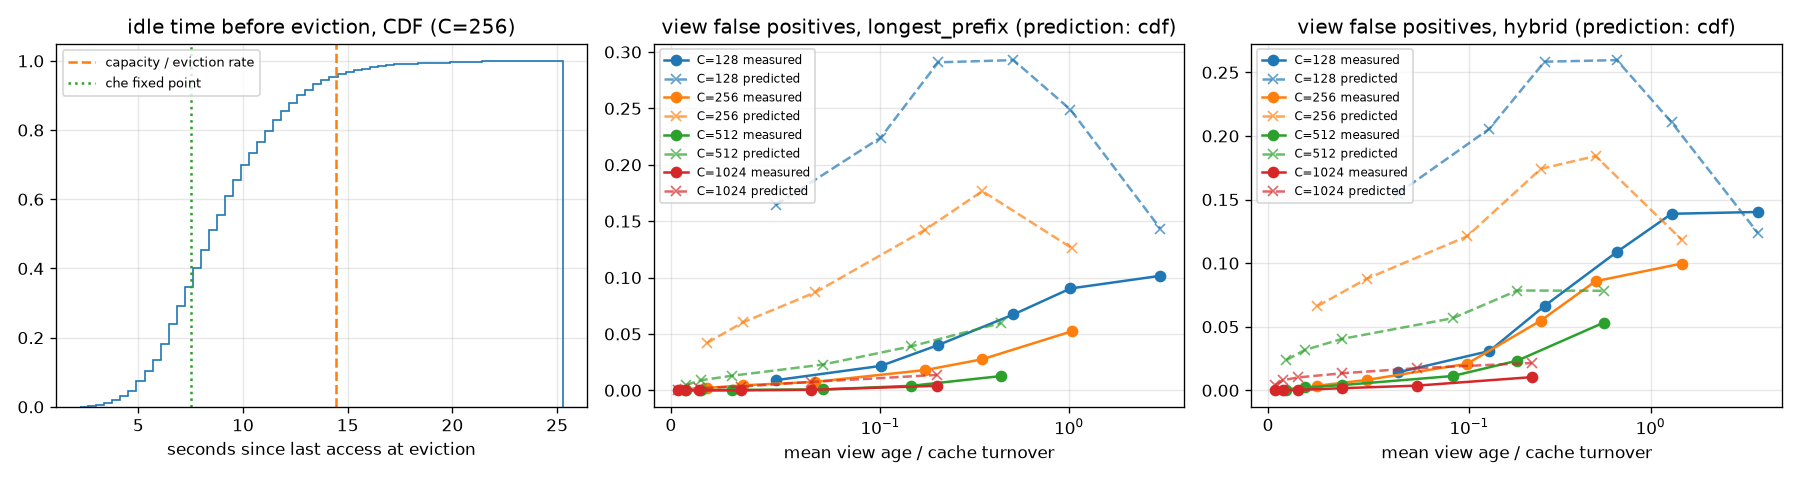
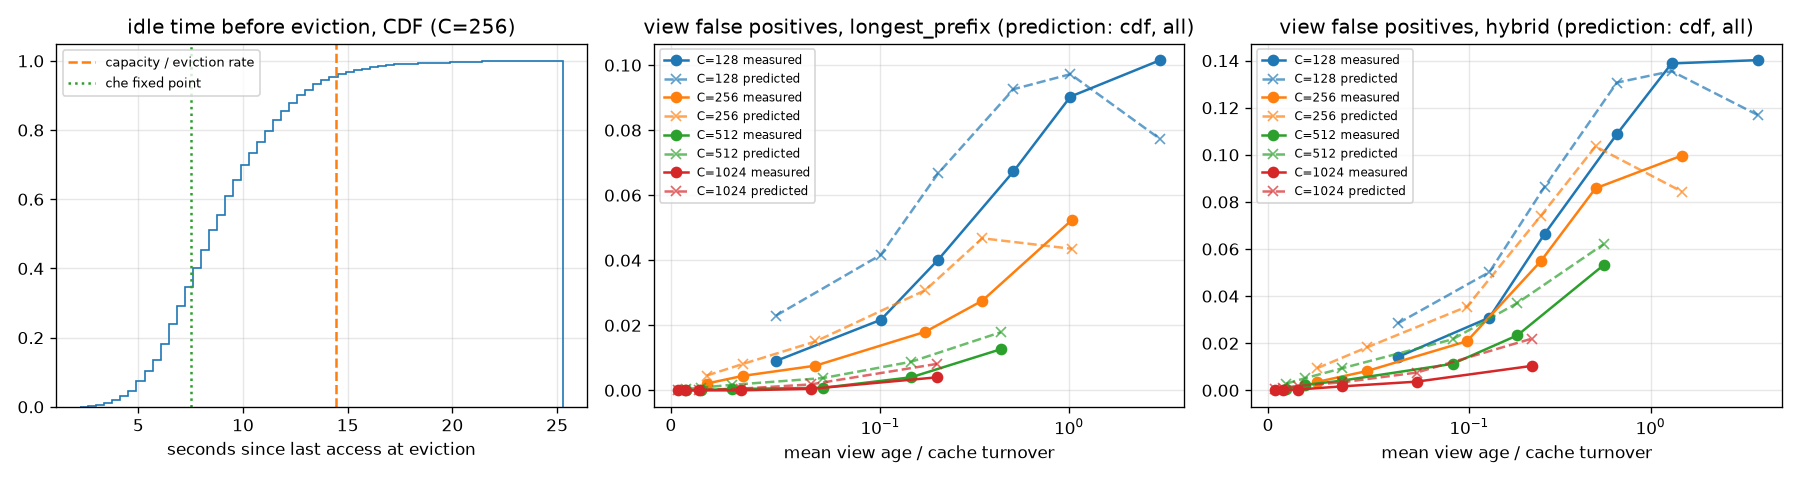
theory check with the corrected survival model

diff --git a/notes/running_exp.md b/notes/running_exp.md
@@ -185,3 +185,23 @@ longest prefix (any treatment)     0.716   0.715   0.714   0.697   0.692   0.645
   C=128, P=5                    0.507     0.0673        0.0889              0.2928
   C=512, P=30                   0.435     0.0127        0.0096              0.0597
   C=1024, P=30                  0.200     0.0040        0.0000              0.0137
+
+
+- theory check, corrected model (2/9/26, E11 final): same setup as the theory check above, after two changes to how the survival view turns per-block survival into an expected match. supersedes the prediction columns above. scripts/theory_check.py, scripts/fp_by_age.py, out/theory_check.png/.csv, out/fp_by_age.csv
+    - first, a diagnostic: bin every promised block by how old the view believed it to be (router `record_block_samples`). at 0.25s view age the residence-cdf hazard is only ~2x off per block (blocks believed 5-8s old: measured 1.3% false, hazard 3.1%; 8-12s: 4.3% vs 7.7%; below 5s both are zero), while the view's aggregate prediction was 15x off. so the residence distribution was roughly right and the way per-block survivals were combined was wrong
+    - correction 1, nested losses: the expected surviving match was Σ_j Π_{i≤j} S_i, every block an independent coin flip. in a radix cache a block is only evicted after everything below it, so "block j is present" implies its ancestors are, and the expected depth is Σ_j S_j (running-min clamped). the product turned a 3% per-block risk into a 27% loss over a 20-block path
+    - correction 2, rescue at the chosen worker: a stale entry is rescued only if *this* worker saw the block again, so the rescue rate is the per-(worker, block) dispatch rate, not the fleet rate. with the fleet rate hybrid, which spreads a prefix across workers, was rescued too often and under-predicted 2.6x at 1.5 turnovers of age; per-worker rates bring it to 0.85x
+    - result: predicted fp within 2x of measured at every point where measured fp exceeds 1%, within 1.4x at ages above a quarter turnover, ~2x over at the smallest ages (the leaf-heavy eviction log; absolute error below half a point there) and ~20% under past one turnover. the shape from the first check stands: fp is linear in age / turnover with a capacity-dependent slope, the cold share of promised blocks: longest prefix 0.19 / 0.11 / 0.03 / 0.02 per turnover at 128 / 256 / 512 / 1024 blocks, hybrid 0.26 / 0.21 / 0.13 / 0.05 (churn plus spreading)
+    - what this buys: the router can now say, per decision, how much of a promise to believe, from things it already has (the snapshot's last-access ages, its own dispatch counts, the worker's eviction counter). the survival treatment in E12 was measured with the product form and is being re-run
+
+-  view fp, corrected model      age/T_C   measured   predicted
+  longest prefix, C=128, P=2      0.20      0.040      0.067
+  longest prefix, C=128, P=10     1.02      0.090      0.097
+  longest prefix, C=256, P=5      0.17      0.018      0.031
+  longest prefix, C=256, P=30     1.04      0.053      0.044
+  longest prefix, C=512, P=30     0.44      0.013      0.018
+  hybrid, C=128, P=5              0.65      0.109      0.131
+  hybrid, C=256, P=5              0.25      0.055      0.074
+  hybrid, C=256, P=30             1.49      0.100      0.084
+  hybrid, C=512, P=30             0.55      0.053      0.062
+  hybrid, C=1024, P=30            0.22      0.010      0.022
